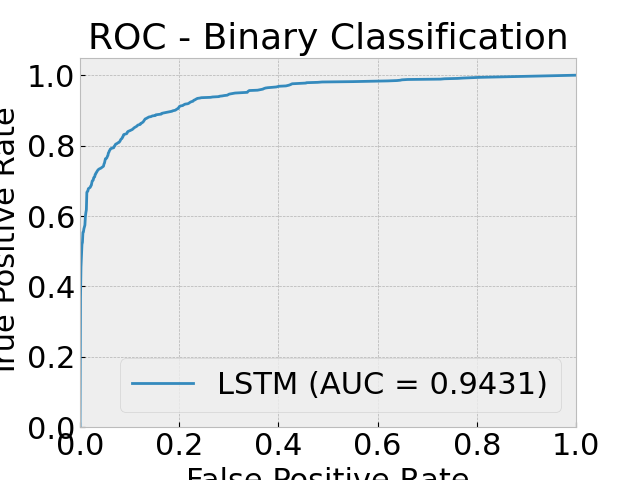
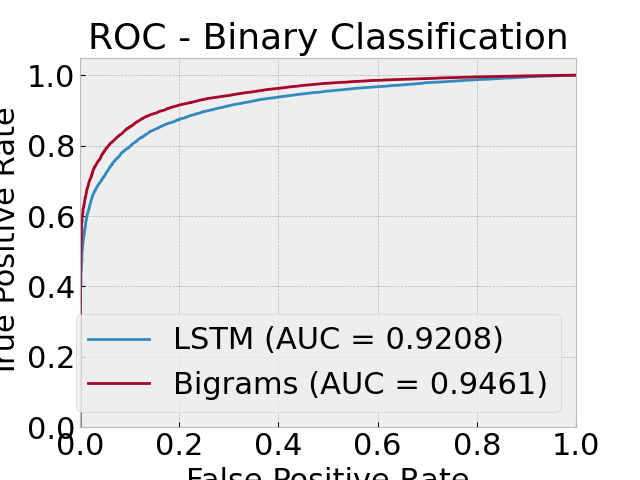
fix: fixing the code files and running the models

Changed region(s): [[0.125, 0.6562, 0.7812, 0.8438], [0.125, 0.1562, 0.9062, 0.5625], [0.6875, 0.75, 0.8125, 0.8438]]

diff --git a/dga_classifier/bigram.py b/dga_classifier/bigram.py
@@ -1,16 +1,22 @@
 """Train and test bigram classifier"""
-import dga_classifier.data as data
-from keras.layers.core import Dense
+from dga_classifier.new_data import get_data
+# from keras.layers.core import Dense
 from keras.models import Sequential
 import sklearn
+import numpy as np 
 from sklearn import feature_extraction
-from sklearn.cross_validation import train_test_split
+# from sklearn.cross_validation import train_test_split
+import sklearn.metrics
+from sklearn.model_selection import train_test_split
+import keras
+from keras import layers
+from keras import ops
 
 
 def build_model(max_features):
     """Builds logistic regression model"""
     model = Sequential()
-    model.add(Dense(1, input_dim=max_features, activation='sigmoid'))
+    model.add(layers.Dense(1, input_dim=max_features, activation='sigmoid'))
 
     model.compile(loss='binary_crossentropy',
                   optimizer='adam')
@@ -18,58 +24,61 @@ def build_model(max_features):
     return model
 
 
-def run(max_epoch=50, nfolds=10, batch_size=128):
+def run(max_epoch=50, nfolds=15, batch_size=128):
     """Run train/test on logistic regression model"""
-    indata = data.get_data()
+    X, labels = get_data()
 
     # Extract data and labels
-    X = [x[1] for x in indata]
-    labels = [x[0] for x in indata]
+    # X = [x[1] for x in indata]
+    # labels = [x[0] for x in indata]
 
     # Create feature vectors
-    print "vectorizing data"
+    print ("vectorizing data")
     ngram_vectorizer = feature_extraction.text.CountVectorizer(analyzer='char', ngram_range=(2, 2))
     count_vec = ngram_vectorizer.fit_transform(X)
 
     max_features = count_vec.shape[1]
 
     # Convert labels to 0-1
-    y = [0 if x == 'benign' else 1 for x in labels]
+    y = [0 if x == 'alexa' else 1 for x in labels]
 
     final_data = []
 
     for fold in range(nfolds):
-        print "fold %u/%u" % (fold+1, nfolds)
+        print ("fold %u/%u" % (fold+1, nfolds))
         X_train, X_test, y_train, y_test, _, label_test = train_test_split(count_vec, y,
                                                                            labels, test_size=0.2)
 
-        print 'Build model...'
+        print ('Build model...')
         model = build_model(max_features)
 
-        print "Train..."
+        print ("Train...")
         X_train, X_holdout, y_train, y_holdout = train_test_split(X_train, y_train, test_size=0.05)
         best_iter = -1
         best_auc = 0.0
         out_data = {}
 
-        for ep in range(max_epoch):
-            model.fit(X_train.todense(), y_train, batch_size=batch_size, nb_epoch=1)
+        X_train = X_train.toarray()  # Converta a matriz esparsa para uma matriz densa
+        y_train = np.array(y_train)
 
-            t_probs = model.predict_proba(X_holdout.todense())
+        for ep in range(max_epoch):
+            model.fit(X_train, y_train, batch_size=batch_size)
+
+            t_probs = model.predict(X_holdout.todense())
             t_auc = sklearn.metrics.roc_auc_score(y_holdout, t_probs)
 
-            print 'Epoch %d: auc = %f (best=%f)' % (ep, t_auc, best_auc)
+            print ('Epoch %d: auc = %f (best=%f)' % (ep, t_auc, best_auc))
 
             if t_auc > best_auc:
                 best_auc = t_auc
                 best_iter = ep
 
-                probs = model.predict_proba(X_test.todense())
+                probs = model.predict(X_test.todense())
 
                 out_data = {'y':y_test, 'labels': label_test, 'probs':probs, 'epochs': ep,
                             'confusion_matrix': sklearn.metrics.confusion_matrix(y_test, probs > .5)}
 
-                print sklearn.metrics.confusion_matrix(y_test, probs > .5)
+                print( sklearn.metrics.confusion_matrix(y_test, probs > .5))
             else:
                 # No longer improving...break and calc statistics
                 if (ep-best_iter) > 5:

diff --git a/run.py b/run.py
@@ -8,7 +8,7 @@ import numpy as np
 from scipy.interpolate import interp1d
 
 
-# import dga_classifier.bigram as bigram
+import dga_classifier.bigram as bigram
 import dga_classifier.lstm as lstm
 
 from scipy import interpolate
@@ -16,32 +16,32 @@ from sklearn.metrics import roc_curve, auc
 
 RESULT_FILE = 'results.pkl'
 
-def run_experiments(isbigram=True, islstm=True, nfolds=10):
+def run_experiments(isbigram=True, islstm=True, nfolds=15):
     """Runs all experiments"""
     bigram_results = None
     lstm_results = None
 
-    # if isbigram:
-    #     bigram_results = bigram.run(nfolds=nfolds)
+    if isbigram:
+        bigram_results = bigram.run(nfolds=nfolds)
 
     if islstm:
         lstm_results = lstm.run(nfolds=nfolds)
 
-    # return bigram_results, lstm_results
+    return bigram_results, lstm_results
         
-    return lstm_results
+    # return lstm_results
 
-def create_figs(isbigram=True, islstm=True, nfolds=10, force=False):
+def create_figs(isbigram=True, islstm=True, nfolds=15, force=False):
     """Create figures"""
     # Generate results if needed
     # if force or (not os.path.isfile(RESULT_FILE)):
-        # bigram_results, lstm_results = run_experiments(isbigram, islstm, nfolds)
+    bigram_results, lstm_results = run_experiments(isbigram, islstm, nfolds)
 
-    lstm_results = run_experiments(isbigram, islstm, nfolds)
+    # lstm_results = run_experiments(isbigram, islstm, nfolds)
 
-        # results = {'bigram': bigram_results, 'lstm': lstm_results}
+    results = {'bigram': bigram_results, 'lstm': lstm_results}
 
-    results = {'bigram': None, 'lstm': lstm_results}
+    # results = {'bigram': None, 'lstm': lstm_results}
 
     # return results
 
@@ -50,15 +50,15 @@ def create_figs(isbigram=True, islstm=True, nfolds=10, force=False):
     #     results = pickle.load(open(RESULT_FILE, 'rb'))
 
     # Extract and calculate bigram ROC
-    # if results['bigram']:
-    #     bigram_results = results['bigram']
-    #     fpr = []
-    #     tpr = []
-    #     for bigram_result in bigram_results:
-    #         t_fpr, t_tpr, _ = roc_curve(bigram_result['y'], bigram_result['probs'])
-    #         fpr.append(t_fpr)
-    #         tpr.append(t_tpr)
-    #     bigram_binary_fpr, bigram_binary_tpr, bigram_binary_auc = calc_macro_roc(fpr, tpr)
+    if results['bigram']:
+        bigram_results = results['bigram']
+        fpr = []
+        tpr = []
+        for bigram_result in bigram_results:
+            t_fpr, t_tpr, _ = roc_curve(bigram_result['y'], bigram_result['probs'])
+            fpr.append(t_fpr)
+            tpr.append(t_tpr)
+        bigram_binary_fpr, bigram_binary_tpr, bigram_binary_auc = calc_macro_roc(fpr, tpr)
 
     # xtract and calculate LSTM ROC
     if results['lstm']:
@@ -71,16 +71,16 @@ def create_figs(isbigram=True, islstm=True, nfolds=10, force=False):
             tpr.append(t_tpr)
         lstm_binary_fpr, lstm_binary_tpr, lstm_binary_auc = calc_macro_roc(fpr, tpr)
     
-    print(fpr)
-    print(tpr)
+    # print(fpr)
+    # print(tpr)
 
     # Save figure
     from matplotlib import pyplot as plt
     with plt.style.context('bmh'):
         plt.plot(lstm_binary_fpr, lstm_binary_tpr,
                  label='LSTM (AUC = %.4f)' % (lstm_binary_auc, ), rasterized=True)
-        # plt.plot(bigram_binary_fpr, bigram_binary_tpr,
-        #          label='Bigrams (AUC = %.4f)' % (bigram_binary_auc, ), rasterized=True)
+        plt.plot(bigram_binary_fpr, bigram_binary_tpr,
+                 label='Bigrams (AUC = %.4f)' % (bigram_binary_auc, ), rasterized=True)
 
         plt.xlim([0.0, 1.0])
         plt.ylim([0.0, 1.05])
@@ -111,4 +111,4 @@ def calc_macro_roc(fpr, tpr):
 
 
 if __name__ == "__main__":
-    create_figs(nfolds=1) # Run with 1 to make it fast
+    create_figs() # Run with 1 to make it fast

diff --git a/dga_classifier/lstm.py b/dga_classifier/lstm.py
@@ -27,7 +27,7 @@ def build_model(max_features, maxlen):
 
     return model
 
-def run(max_epoch=25, nfolds=10, batch_size=128):
+def run(max_epoch=25, nfolds=15, batch_size=128):
     """Run train/test on logistic regression model"""
     # indata = data.get_data()
 
